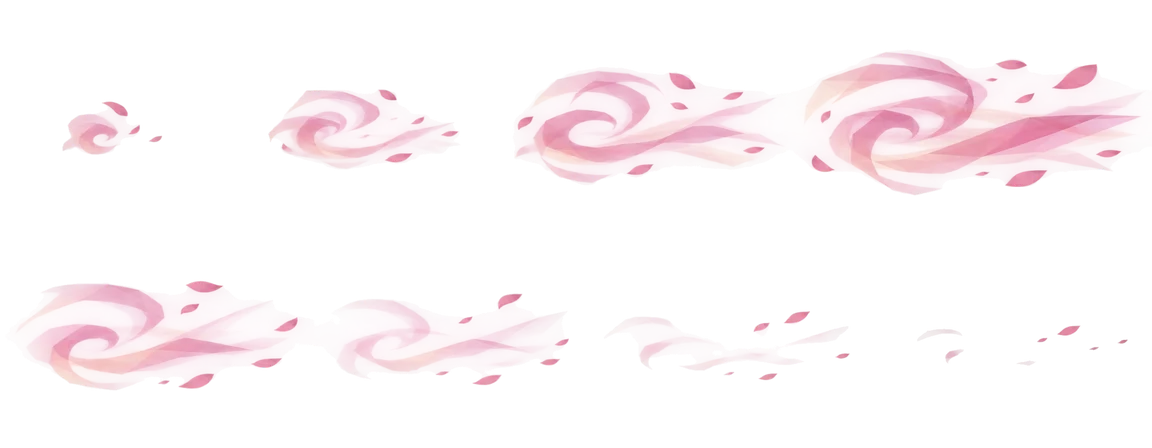
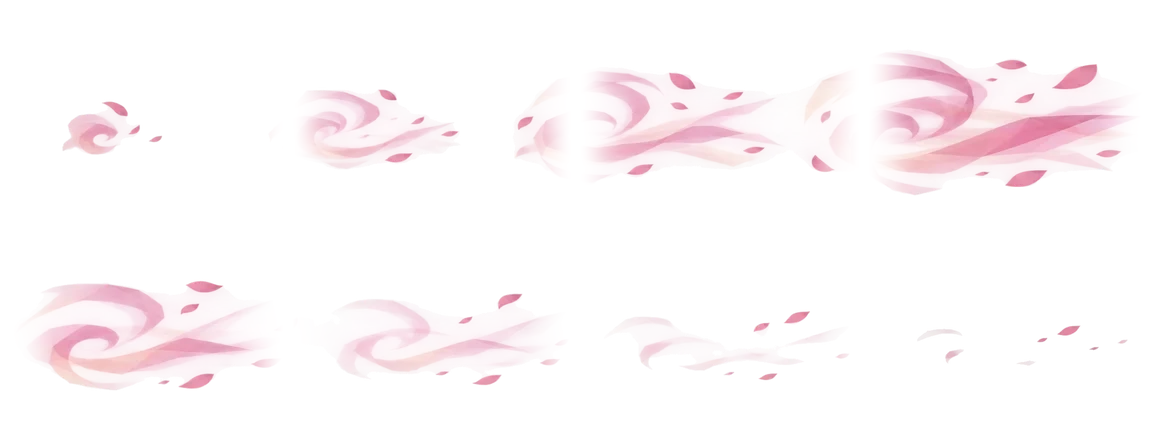
Send Aromatherapy upward through allies and feather its sprite edges

diff --git a/assets/aromatherapy.js b/assets/aromatherapy.js
@@ -1,28 +1,27 @@
 (()=>{
   const art=new Image();
-  art.src="./assets/aromatherapy-frames.webp?v=0.293.0";
-  function frame(g,index,x,y,width,height,dir){
+  art.src="./assets/aromatherapy-frames.webp?v=0.293.1";
+  function frame(g,index,x,y,width,height){
     if(!art.complete||!art.naturalWidth)return;
     g.save();
     g.translate(x,y);
-    g.scale(-dir,1);
     g.drawImage(art,index%4*288,Math.floor(index/4)*224,288,224,-width/2,-height/2,width,height);
     g.restore();
   }
-  function draw(g,allies,progress,dir){
+  function draw(g,allies,progress){
     if(!allies.length)return;
     const xs=allies.map(u=>u.x),ys=allies.map(u=>u.y);
-    const min=Math.min(...xs),max=Math.max(...xs);
-    const start=dir===1?min-120:max+120,end=dir===1?max+125:min-125;
-    const x=start+(end-start)*progress;
-    const y=(Math.min(...ys)+Math.max(...ys))/2-90;
-    const height=Math.max(165,Math.max(...ys)-Math.min(...ys)+140);
+    const left=Math.min(...xs),right=Math.max(...xs);
+    const front=Math.max(...ys),back=Math.min(...ys);
+    const x=(left+right)/2;
+    const start=front+35,end=back-190;
+    const y=start+(end-start)*progress;
     const index=Math.min(7,Math.floor(progress*8));
     g.save();
     g.globalAlpha*=Math.min(1,progress*9,(1-progress)*7);
-    frame(g,index,x,y,Math.max(260,max-min+160),height,dir);
+    frame(g,index,x,y,Math.max(240,right-left+180),165);
     g.restore();
   }
-  window.Aromatherapy={draw,portrait(g,w,h){frame(g,3,w/2,h*.46,w,h,1);}};
+  window.Aromatherapy={draw,portrait(g,w,h){frame(g,3,w/2,h*.46,w,h);}};
   art.addEventListener("load",()=>window.WIZARDRY_ARENA_TEST?.drawCardArts());
 })();

diff --git a/index.html b/index.html
@@ -1,1 +1,1 @@
-<!doctype html><html lang="en"><head><meta charset="utf-8"><meta name="viewport" content="width=device-width,initial-scale=1"><title>Wizardry : The Fall of Lupen’s Kingdom</title><meta http-equiv="refresh" content="0;url=./arena.html?v=0.293.0"><script>const query=new URLSearchParams(location.search);query.set('v','0.293.0');location.replace('./arena.html?'+query+location.hash);</script></head><body><a href="./arena.html?v=0.293.0">Enter Wizardry</a></body></html>
+<!doctype html><html lang="en"><head><meta charset="utf-8"><meta name="viewport" content="width=device-width,initial-scale=1"><title>Wizardry : The Fall of Lupen’s Kingdom</title><meta http-equiv="refresh" content="0;url=./arena.html?v=0.293.1"><script>const query=new URLSearchParams(location.search);query.set('v','0.293.1');location.replace('./arena.html?'+query+location.hash);</script></head><body><a href="./arena.html?v=0.293.1">Enter Wizardry</a></body></html>

diff --git a/arena.html b/arena.html
@@ -304,8 +304,8 @@
 <script src="./assets/double-pick.js?v=0.290.9" defer></script>
 <script src="./assets/dark-grounds.js?v=0.291.0" defer></script>
 <script src="./assets/groveland.js?v=0.292.2" defer></script>
-<script src="./assets/aromatherapy.js?v=0.293.0" defer></script>
-<script src="./arena.js?v=0.293.0" defer></script>
+<script src="./assets/aromatherapy.js?v=0.293.1" defer></script>
+<script src="./arena.js?v=0.293.1" defer></script>
 <script src="./assets/menu-music.js?v=0.282.2" defer></script>
 <script src="./assets/wizard-home-v135.js?v=0.284.9" defer></script>
 <dialog id="battleLogPanel" aria-labelledby="battleLogTitle">

diff --git a/arena.js b/arena.js
@@ -4777,7 +4777,7 @@
         const progress=clamp(action.elapsed/action.duration,0,1);
         const allies=alive(source.team);
         renderables.push({type:"aromatherapy-gust",depthY:Math.max(...allies.map(u=>u.y))+.1,priority:2,
-          draw:()=>effect.draw(g,allies,progress,source.team===0?1:-1)});
+          draw:()=>effect.draw(g,allies,progress)});
       }
     }
     if(action?.card?.id==="doublepick"&&action.stage==="summon"){
